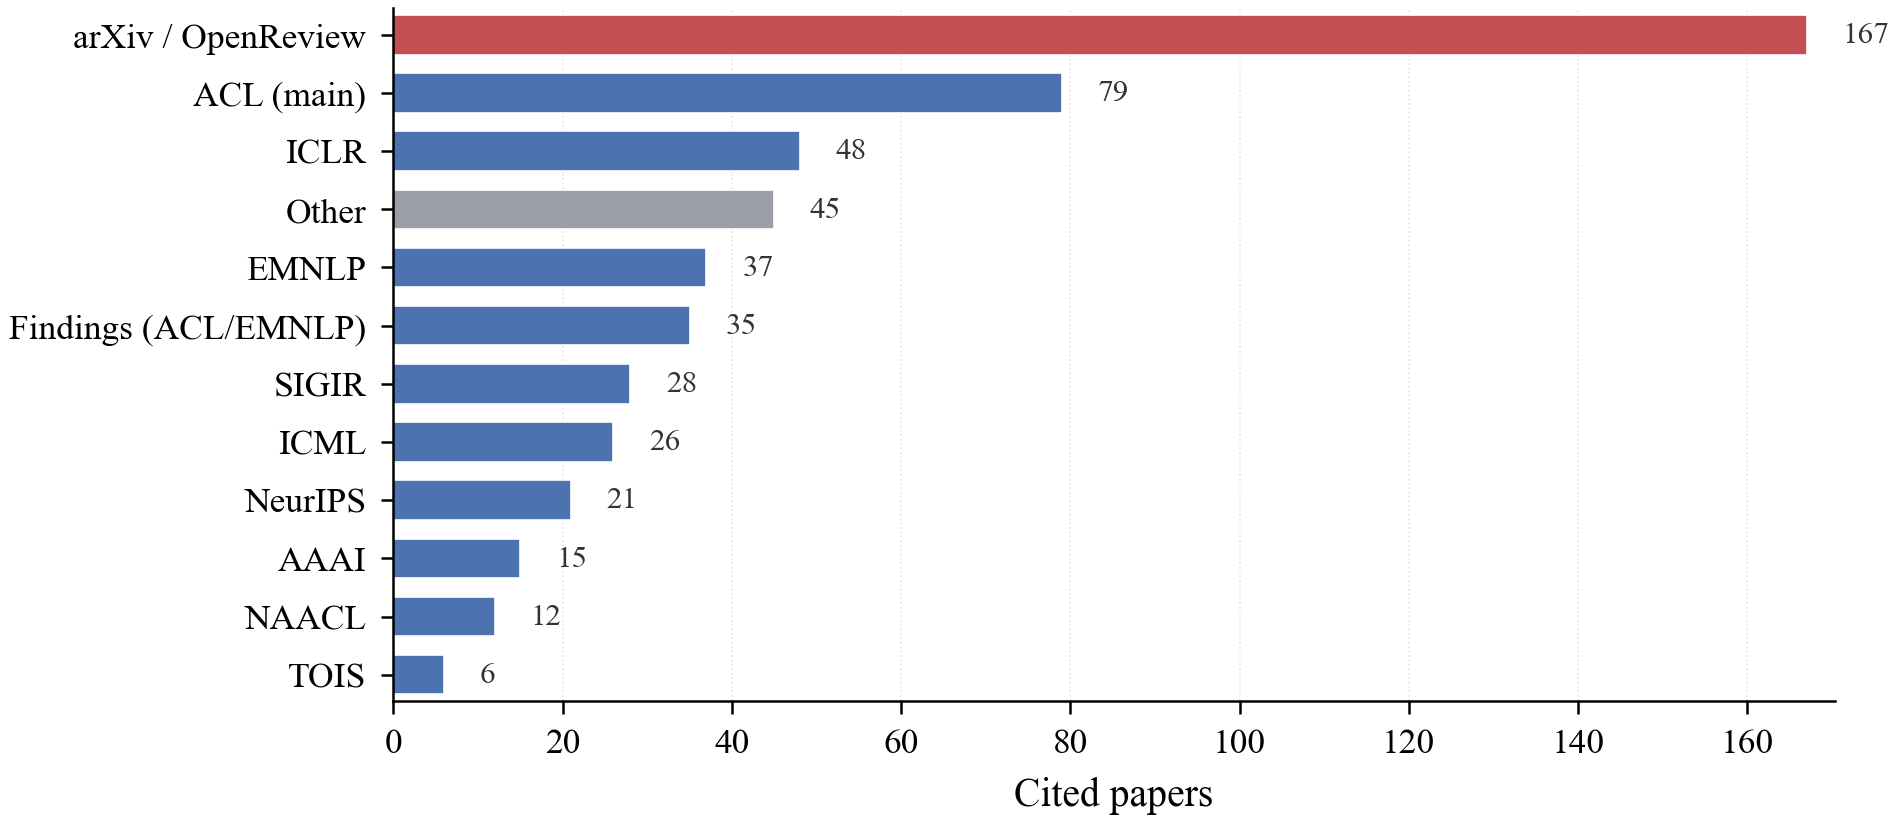
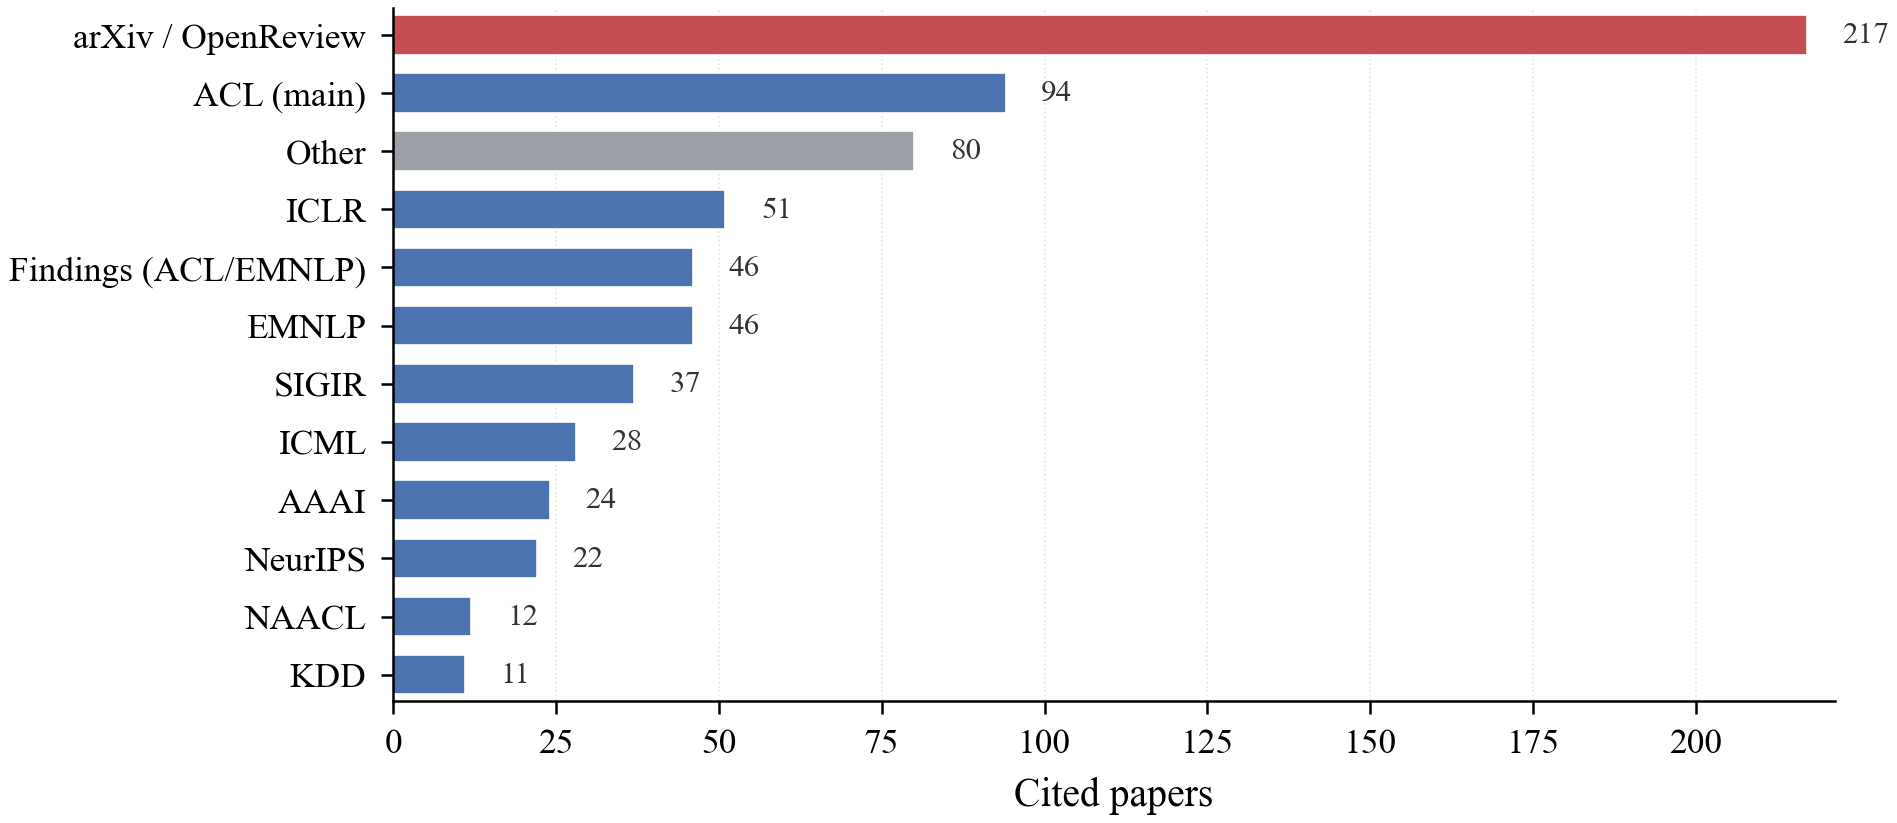
RAG-Survey: refresh landscape figures to the cited set
The bibliometric figures plotted every bibliography entry, including
uncited library records; they now cover the 683 works actually cited
(88% from 2024-2026, 32% preprints), matching the paper's captions.

diff --git a/RAG-Survey/index.html b/RAG-Survey/index.html
@@ -207,20 +207,20 @@
   <!-- ── Landscape ─────────────────────────────────────────────────────── -->
   <section id="landscape">
     <div class="eyebrow">The literature landscape</div>
-    <h2>What the library covers</h2>
-    <p class="lede">The survey&rsquo;s reading library was screened and tagged by cluster, venue and year. The figures below are the paper&rsquo;s own view of that coverage.</p>
+    <h2>Where the cited literature sits</h2>
+    <p class="lede">The survey cites 684 works; 683 of them sit in the bibliography below with an identifiable shape. The two figures are the paper&rsquo;s own view of that literature &mdash; recomputed from the bibliography, not copied from a slide.</p>
     <div class="figrow">
       <figure>
-        <a class="zoom" href="assets/fig_year_dist.png" data-caption="Publication years across the curated library">
-        <img src="assets/fig_year_dist.png" alt="Bar chart of papers per year in the curated library">
+        <a class="zoom" href="assets/fig_year_dist.png" data-caption="Publication years among the works cited in the survey (683 entries)">
+        <img src="assets/fig_year_dist.png" alt="Bar chart of cited papers per publication year">
         </a>
-        <figcaption><b>Years.</b> The field&rsquo;s shift is visible in the distribution: the bulk of the library is 2025&ndash;2026 work.<span class="zoomtag">Click to enlarge &#8599;</span></figcaption>
+        <figcaption><b>Years.</b> <b>88%</b> of the cited works appeared in 2024&ndash;2026; the pre-2020 tail is foundational IR and attribution work that anchors the component analysis.<span class="zoomtag">Click to enlarge &#8599;</span></figcaption>
       </figure>
       <figure>
-        <a class="zoom" href="assets/fig_venue_dist.png" data-caption="Venues represented in the curated library">
-        <img src="assets/fig_venue_dist.png" alt="Bar chart of papers per venue in the curated library">
+        <a class="zoom" href="assets/fig_venue_dist.png" data-caption="Venues among the works cited in the survey (683 entries)">
+        <img src="assets/fig_venue_dist.png" alt="Bar chart of cited papers per venue">
         </a>
-        <figcaption><b>Venues.</b> How much of the work has passed peer review versus circulating as preprints &mdash; a distinction the survey keeps visible when it grades evidence.<span class="zoomtag">Click to enlarge &#8599;</span></figcaption>
+        <figcaption><b>Venues.</b> Roughly a third circulate as preprints against ACL-family, ICLR and SIGIR venues &mdash; a split the survey keeps visible when it grades evidence.<span class="zoomtag">Click to enlarge &#8599;</span></figcaption>
       </figure>
     </div>
   </section>
